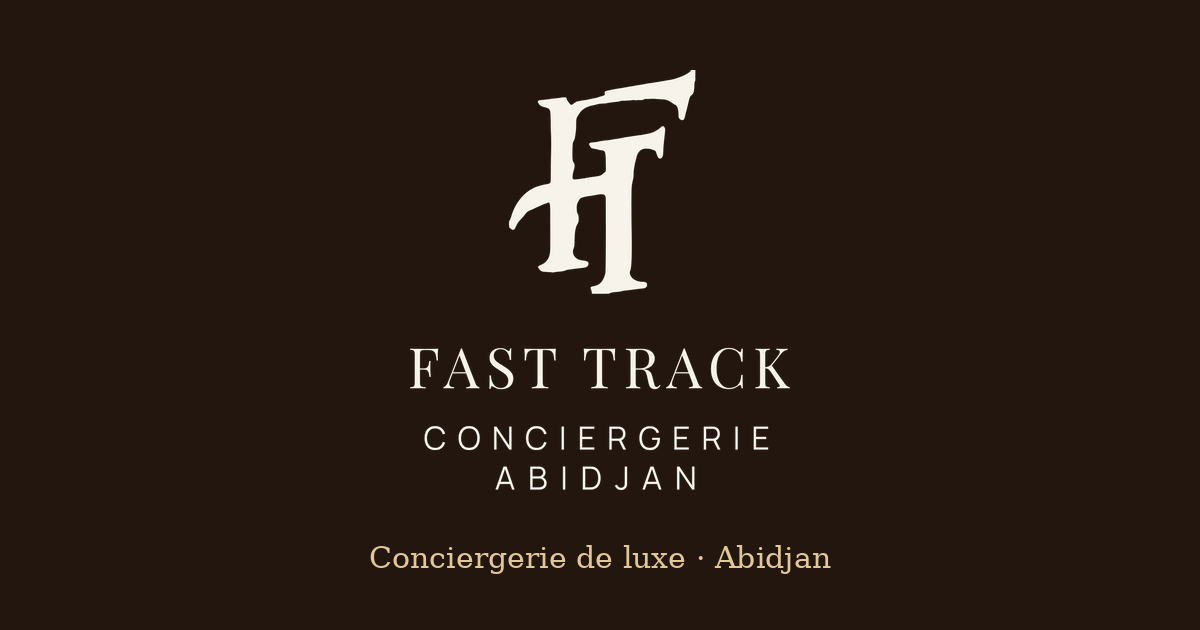
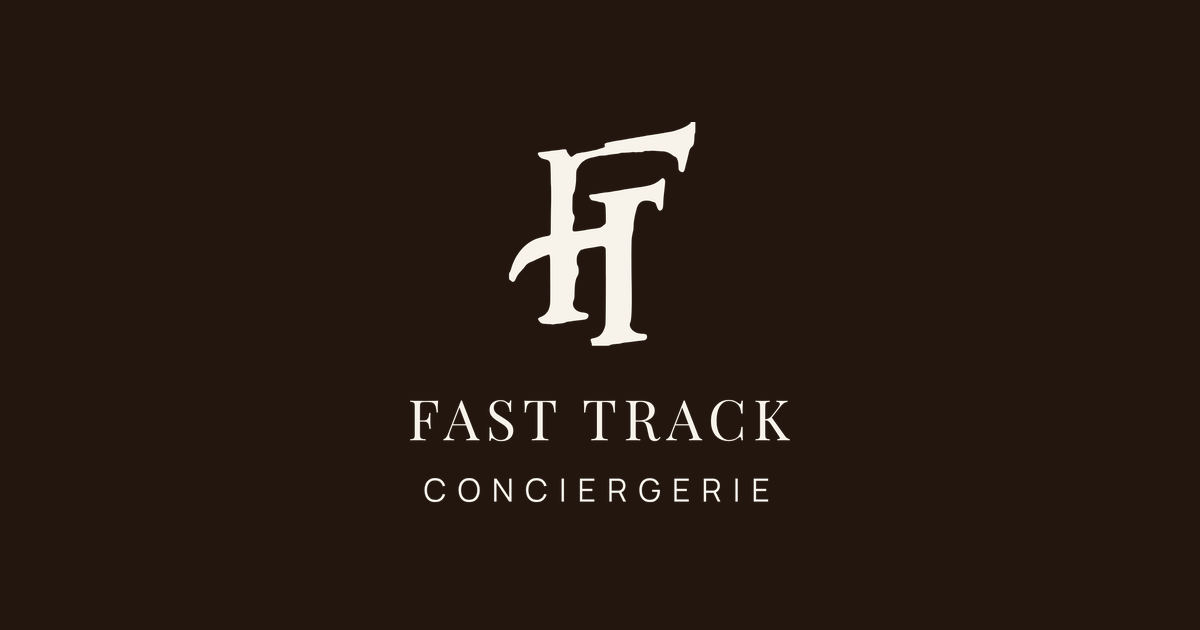
Accueil 3 rubriques, hotels prix reduits, marque sans Abidjan

Changed region(s): [[0.3392, 0.1206, 0.6783, 0.8143], [0.3083, 0.8746, 0.7092, 0.9048]]

diff --git a/components/hotels/DiscountHotels.tsx b/components/hotels/DiscountHotels.tsx
@@ -1,0 +1,64 @@
+import { MessageCircle, Mail, Ghost, ArrowRight } from "lucide-react";
+import { Reveal } from "@/components/ui/Reveal";
+import { site, } from "@/lib/site";
+import { socials } from "@/lib/services";
+
+const steps = [
+  { n: "01", title: "Envoyez-nous votre hôtel", text: "Le lien Booking (ou autre), le nom de l'hôtel, vos dates et le nombre de voyageurs." },
+  { n: "02", title: "Nous cherchons le meilleur prix", text: "Notre équipe compare et vous répond avec une proposition, sans engagement." },
+  { n: "03", title: "Vous validez, nous réservons", text: "Une fois d'accord, nous nous occupons de la réservation à votre place." },
+];
+
+const waText = encodeURIComponent("Bonjour Fast Track Conciergerie, j'ai trouvé un hôtel et je souhaite connaître votre meilleur prix : ");
+
+/* Section « Hôtels à prix réduits » : sobre, sans tarifs inventés. Les canaux (WhatsApp, Snapchat, mail) sont présentés à égalité. */
+export function DiscountHotels() {
+  const snap = socials.find((s) => s.name === "Snapchat")?.href;
+  const channels = [
+    { label: "WhatsApp", href: `${site.whatsappHref}?text=${waText}`, icon: MessageCircle },
+    { label: "Snapchat", href: snap || "/contact", icon: Ghost },
+    { label: "Email", href: `mailto:${site.email}?subject=${encodeURIComponent("Hôtel à prix réduit")}`, icon: Mail },
+  ];
+  return (
+    <section aria-labelledby="hotels-prix" className="mx-auto mt-16 max-w-6xl px-4 md:px-8">
+      <div className="relative overflow-hidden rounded-card bg-chocolate-deep px-6 py-14 text-ivory shadow-soft md:px-14 md:py-20">
+        <div aria-hidden className="pointer-events-none absolute -right-24 -top-24 h-72 w-72 rounded-full bg-gold/10 blur-3xl" />
+        <Reveal className="relative mx-auto max-w-2xl text-center">
+          <p className="text-[0.7rem] font-semibold uppercase tracking-[0.3em] text-gold">Service exclusif</p>
+          <h2 id="hotels-prix" className="mt-4 font-serif text-3xl font-bold md:text-5xl">Hôtels à prix réduits, partout dans le monde</h2>
+          <p className="mt-5 text-ivory/75">Vous avez trouvé un hôtel sur Booking ou ailleurs ? Envoyez-le-nous. Dans la plupart des cas, on vous le réserve moins cher.</p>
+        </Reveal>
+
+        <ol id="comment-ca-marche" className="relative mt-12 grid scroll-mt-28 gap-8 md:grid-cols-3">
+          {steps.map((s, i) => (
+            <li key={s.n}>
+              <Reveal delay={i * 0.08} className="h-full border-t border-gold/30 pt-5">
+                <span className="font-serif text-3xl text-gold">{s.n}</span>
+                <h3 className="mt-2 font-semibold">{s.title}</h3>
+                <p className="mt-1 text-sm text-ivory/70">{s.text}</p>
+              </Reveal>
+            </li>
+          ))}
+        </ol>
+
+        <div className="relative mt-12 text-center">
+          <p className="text-sm text-ivory/70">Écrivez-nous là où vous êtes le plus à l&apos;aise :</p>
+          <ul className="mt-4 flex flex-wrap justify-center gap-3">
+            {channels.map((c) => (
+              <li key={c.label}>
+                <a href={c.href} {...(c.href.startsWith("http") ? { target: "_blank", rel: "noopener noreferrer" } : {})}
+                  className="inline-flex items-center gap-2 rounded-full border border-gold/50 px-5 py-2.5 text-sm font-semibold text-gold transition hover:bg-gold hover:text-chocolate-deep">
+                  <c.icon className="h-4 w-4" />{c.label}
+                </a>
+              </li>
+            ))}
+          </ul>
+          <a href={`${site.whatsappHref}?text=${waText}`} target="_blank" rel="noopener noreferrer"
+            className="mt-8 inline-flex items-center gap-2 rounded-full bg-gold px-8 py-3.5 text-sm font-bold uppercase tracking-wider text-chocolate-deep transition hover:brightness-105">
+            Demander mon prix <ArrowRight className="h-4 w-4" />
+          </a>
+        </div>
+      </div>
+    </section>
+  );
+}

diff --git a/app/page.tsx b/app/page.tsx
@@ -6,7 +6,7 @@ import { Media } from "@/components/ui/Media";
 import { Reveal } from "@/components/ui/Reveal";
 import { EventsCarousel } from "@/components/events/EventsCarousel";
 import { ServiceGrid } from "@/features/services/ServiceGrid";
-import { entries, sharedGroup } from "@/lib/services";
+import { mainSlugs, services } from "@/lib/services";
 
 const engagements = [
   { icon: ShieldCheck, title: "Service premium", text: "Chaque prestation est suivie par un interlocuteur dédié." },
@@ -15,6 +15,8 @@ const engagements = [
   { icon: Headset, title: "Assistance", text: "Une équipe joignable avant, pendant et après votre prestation." },
   { icon: Handshake, title: "Réseau de partenaires", text: "Des partenaires sélectionnés à Abidjan et à l'international." },
 ];
+
+const mainServices = mainSlugs.map((m) => services.find((s) => s.slug === m)!);
 
 export default function Home() {
   return (
@@ -32,18 +34,15 @@ export default function Home() {
       </section>
 
       <section aria-label="Accès rapide" className="relative z-10 mx-auto -mt-10 max-w-7xl px-4 md:px-8">
-        <ul className="grid grid-cols-3 gap-y-6 sm:grid-cols-4 rounded-card bg-ivory p-5 shadow-soft md:grid-cols-7">
-          {entries.map((e) => {
-            const s = e.kind === "group" ? sharedGroup : e.service;
-            return (
+        <ul className="grid grid-cols-3 gap-y-6 rounded-card bg-ivory p-6 shadow-soft md:p-8">
+          {mainServices.map((s) => (
             <li key={s.slug}>
-              <Link href={s.path} className="group flex flex-col items-center gap-2 text-center text-[0.7rem] leading-tight text-chocolate md:text-xs">
-                <s.icon className="h-8 w-8 stroke-[1.2] text-chocolate transition group-hover:text-bronze md:h-9 md:w-9" />
+              <Link href={s.path} className="group flex flex-col items-center gap-2 text-center text-xs font-medium leading-tight text-chocolate md:gap-3 md:text-base">
+                <s.icon className="h-9 w-9 stroke-[1.2] text-chocolate transition group-hover:text-bronze md:h-11 md:w-11" />
                 {s.short}
               </Link>
             </li>
-            );
-          })}
+          ))}
         </ul>
       </section>
 
@@ -51,7 +50,8 @@ export default function Home() {
 
       <section className="mx-auto max-w-7xl px-4 py-20 md:px-8">
         <Reveal><h2 className="mb-10 text-center font-serif text-4xl font-bold md:text-5xl">Nos services</h2></Reveal>
-        <ServiceGrid />
+        <ServiceGrid only={mainSlugs} />
+        <div className="mt-10 text-center"><Button href="/services" variant="light">Voir tous nos services →</Button></div>
       </section>
 
       <section className="relative isolate overflow-hidden py-24 text-center text-ink">

diff --git a/app/destinations/page.tsx b/app/destinations/page.tsx
@@ -1,3 +1,5 @@
+import { existsSync } from "node:fs";
+import { join } from "node:path";
 import type { Metadata } from "next";
 import Link from "next/link";
 import { ArrowRight } from "lucide-react";
@@ -40,10 +42,13 @@ function Group({ title, items }: { title: string; items: readonly { name: string
   );
 }
 
+/* Bannière vidéo : déposer le fichier public/media/destinations/banner.mp4 (la photo reste en secours). */
+const bannerVideo = existsSync(join(process.cwd(), "public/media/destinations/banner.mp4")) ? "/media/destinations/banner.mp4" : undefined;
+
 export default function DestinationsPage() {
   return (
     <>
-      <PageHero title="Destinations" subtitle="Une expérience sur mesure à Abidjan et partout dans le monde." tone="sunset" photo="abidjan" />
+      <PageHero title="Destinations" subtitle="Une expérience sur mesure à Abidjan et partout dans le monde." tone="sunset" photo="abidjan" video={bannerVideo} />
       <Group title="Abidjan et Côte d'Ivoire" items={destinations.cote} />
       <Group title="À l'international" items={destinations.international} />
       <p className="mx-auto max-w-3xl px-4 pb-20 text-center text-sm text-ink/60">Les prestations sont proposées sur demande ; disponibilités et tarifs sont confirmés par notre équipe avant toute réservation.</p>

diff --git a/app/layout.tsx b/app/layout.tsx
@@ -12,9 +12,9 @@ const siteUrl = process.env.NEXT_PUBLIC_SITE_URL ?? (process.env.VERCEL_PROJECT_
 
 export const metadata: Metadata = {
   metadataBase: new URL(siteUrl),
-  title: { default: "Fast Track Conciergerie — Abidjan", template: "%s | Fast Track Conciergerie" },
-  description: "Conciergerie de luxe à Abidjan : jet privé, villas, hôtels, voitures, restaurants, activités, shopping et montres de luxe.",
-  openGraph: { type: "website", locale: "fr_FR", siteName: "Fast Track Conciergerie", title: "Fast Track Conciergerie — Abidjan", description: "Conciergerie de luxe à Abidjan : jet privé, villas, hôtels, voitures, restaurants, activités, shopping et montres de luxe." },
+  title: { default: "Fast Track Conciergerie", template: "%s | Fast Track Conciergerie" },
+  description: "Conciergerie de luxe : jet privé, villas, hôtels, voitures, restaurants, activités, shopping et montres de luxe.",
+  openGraph: { type: "website", locale: "fr_FR", siteName: "Fast Track Conciergerie", title: "Fast Track Conciergerie", description: "Conciergerie de luxe : jet privé, villas, hôtels, voitures, restaurants, activités, shopping et montres de luxe." },
   twitter: { card: "summary_large_image" },
 };
 

diff --git a/lib/gallery.ts b/lib/gallery.ts
@@ -105,11 +105,12 @@ export const galleries: Record<string, { cover: string; coverAlt: string; title:
 };
 
 /* Activités touristiques : une carte par activité, ouvrant sa propre page (photos + vidéos). */
-export type Activity = { slug: string; title: string; blurb: string; cover: string; coverAlt: string; items: GalleryItem[] };
+export type Activity = { duration?: "Demi-journée" | "Journée complète"; slug: string; title: string; blurb: string; cover: string; coverAlt: string; items: GalleryItem[] };
 
 export const activities: Activity[] = [
   {
     slug: "apres-midi-a-assinie",
+    duration: "Demi-journée",
     title: "Un après-midi à Assinie",
     blurb: "Plage, détente et moments à partager au bord de l'océan.",
     cover: galleries["activites-touristiques"].cover,
@@ -118,6 +119,7 @@ export const activities: Activity[] = [
   },
   {
     slug: "apres-midi-a-grand-bassam",
+    duration: "Demi-journée",
     title: "Un après-midi à Grand Bassam",
     blurb: "Architecture coloniale, marché, plage et table au bord de l'eau.",
     cover: "/media/bassam/cover.jpg",

diff --git a/components/ui/PageHero.tsx b/components/ui/PageHero.tsx
@@ -1,10 +1,11 @@
 import { Media } from "./Media";
 import type { PhotoKey } from "@/lib/photos";
 
-export function PageHero({ title, subtitle, tone = "night", photo }: { photo?: PhotoKey; title: string; subtitle?: string; tone?: "sunset" | "night" | "sea" | "warm" }) {
+export function PageHero({ title, subtitle, tone = "night", photo, video }: { video?: string; photo?: PhotoKey; title: string; subtitle?: string; tone?: "sunset" | "night" | "sea" | "warm" }) {
   return (
     <section className="relative flex min-h-[48svh] items-end overflow-hidden text-ivory">
       <Media photo={photo} alt="" tone={tone} priority className="absolute inset-0" />
+      {video && <video src={video} autoPlay muted loop playsInline preload="metadata" aria-hidden className="absolute inset-0 h-full w-full object-cover motion-reduce:hidden" />}
       <div className="absolute inset-0 bg-gradient-to-t from-black/70 via-black/10 to-black/30" />
       <div className="relative z-10 mx-auto w-full max-w-7xl px-4 pb-16 md:px-8">
         <h1 className="font-serif text-4xl font-bold md:text-6xl">{title}</h1>

diff --git a/components/layout/Footer.tsx b/components/layout/Footer.tsx
@@ -16,7 +16,7 @@ export function Footer() {
         <div><h2 className="mb-3 font-serif text-lg text-ivory">Contact</h2><ul className="mb-4 space-y-2 text-sm"><li><a href={`mailto:${site.email}`} className="hover:text-gold">{site.email}</a></li><li><a href={site.phoneHref} className="hover:text-gold">{site.phone}</a></li></ul><SocialLinks />
           <ul className="mt-6 space-y-2 text-sm"><li><Link href="/mentions-legales" className="hover:text-gold">Mentions légales</Link></li><li><Link href="/cgv" className="hover:text-gold">CGV</Link></li><li><Link href="/confidentialite" className="hover:text-gold">Confidentialité</Link></li><li><Link href="/connexion" className="hover:text-gold">Espace client</Link></li></ul></div>
       </div>
-      <div className="border-t border-white/10 py-5 text-center text-xs">© {new Date().getFullYear()} Fast Track Conciergerie — Abidjan</div>
+      <div className="border-t border-white/10 py-5 text-center text-xs">© {new Date().getFullYear()} Fast Track Conciergerie</div>
     </footer>
   );
 }

diff --git a/components/ui/ActivityGrid.tsx b/components/ui/ActivityGrid.tsx
@@ -15,6 +15,7 @@ export function ActivityGrid() {
             <li key={a.slug}>
               <Link href={`/activites-touristiques/${a.slug}`} className="group relative block aspect-[4/3] overflow-hidden rounded-card shadow-soft">
                 <Image src={a.cover} alt={a.coverAlt} fill sizes="(min-width:1024px) 33vw, (min-width:640px) 50vw, 100vw" className="object-cover transition duration-700 group-hover:scale-105" />
+                {a.duration && <span className="absolute left-3 top-3 rounded-full border border-gold/50 bg-black/40 px-3 py-1 text-[0.62rem] font-semibold uppercase tracking-[0.18em] text-gold backdrop-blur-md">{a.duration}</span>}
                 <div className="absolute inset-0 bg-gradient-to-t from-black/75 via-black/10 to-transparent" />
                 <div className="absolute inset-x-0 bottom-0 p-5 text-ivory">
                   <h3 className="font-serif text-2xl font-bold">{a.title}</h3>

diff --git a/app/[service]/page.tsx b/app/[service]/page.tsx
@@ -4,6 +4,7 @@ import { Button } from "@/components/ui/Button";
 import { servicePhoto } from "@/lib/photos";
 import { galleries } from "@/lib/gallery";
 import { ActivityGrid } from "@/components/ui/ActivityGrid";
+import { DiscountHotels } from "@/components/hotels/DiscountHotels";
 import { Gallery } from "@/components/ui/Gallery";
 import { Media } from "@/components/ui/Media";
 import { Reveal } from "@/components/ui/Reveal";
@@ -56,6 +57,7 @@ export default async function ServicePage({ params }: { params: Promise<Params> 
           </p>
         </div>
       </div>
+      {s.slug === "hotels" && <DiscountHotels />}
       {s.slug === "activites-touristiques" ? <ActivityGrid /> : galleries[s.slug] && <Gallery title={galleries[s.slug].title} items={galleries[s.slug].items} />}
       <div className="h-20" />
     </>

diff --git a/features/services/ServiceGrid.tsx b/features/services/ServiceGrid.tsx
@@ -8,10 +8,11 @@ import { entries, services, sharedGroup } from "@/lib/services";
 
 const tones = ["sunset", "sea", "warm", "night", "night", "sea", "warm", "night", "warm"] as const;
 
-export function ServiceGrid() {
+export function ServiceGrid({ only }: { only?: string[] } = {}) {
+  const list = only ? entries.filter((e) => e.kind === "service" && only.includes(e.service.slug)) : entries;
   return (
     <ul className="grid gap-4 sm:grid-cols-2 lg:grid-cols-3">
-      {entries.map((e, i) => e.kind === "group" ? (
+      {list.map((e, i) => e.kind === "group" ? (
         <li key={sharedGroup.slug}>
           <Reveal delay={(i % 4) * 0.08}>
             <Link href={sharedGroup.path} className="group relative block aspect-[4/3] overflow-hidden rounded-card shadow-soft">

diff --git a/lib/services.ts b/lib/services.ts
@@ -71,6 +71,9 @@ export const sharedGroup = {
   members: ["shopping-europe", "montres-de-luxe", "barber-a-domicile", "chef-a-domicile"],
 };
 
+/* Les 3 rubriques mises en avant sur l'accueil (fil conducteur du site). Les autres restent sur /services. */
+export const mainSlugs = ["jet-prive", "hotels", "location-de-voiture"];
+
 export type Entry = { kind: "service"; service: Service } | { kind: "group" };
 export const entries: Entry[] = services.reduce<Entry[]>((acc, s) => {
   if (!sharedGroup.members.includes(s.slug)) acc.push({ kind: "service", service: s });
